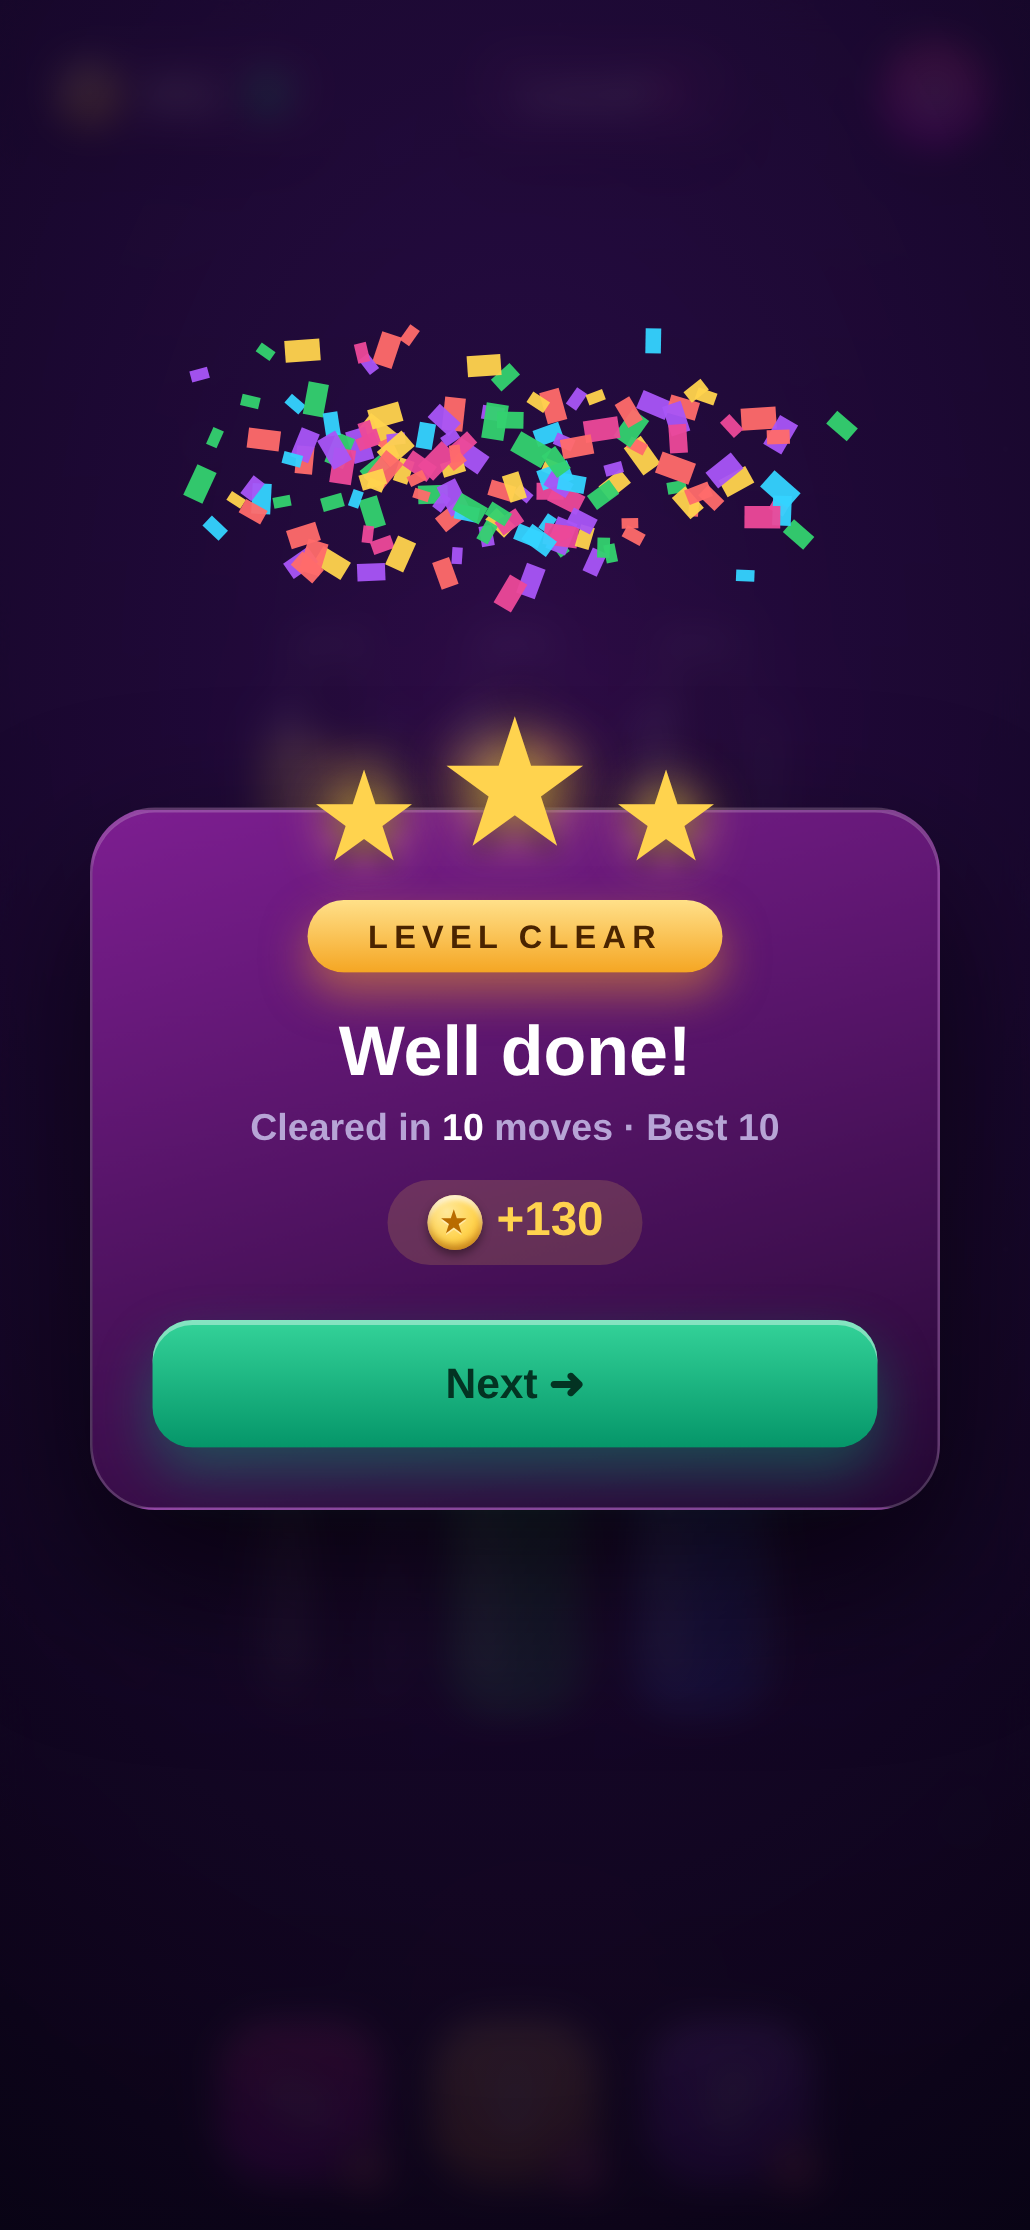
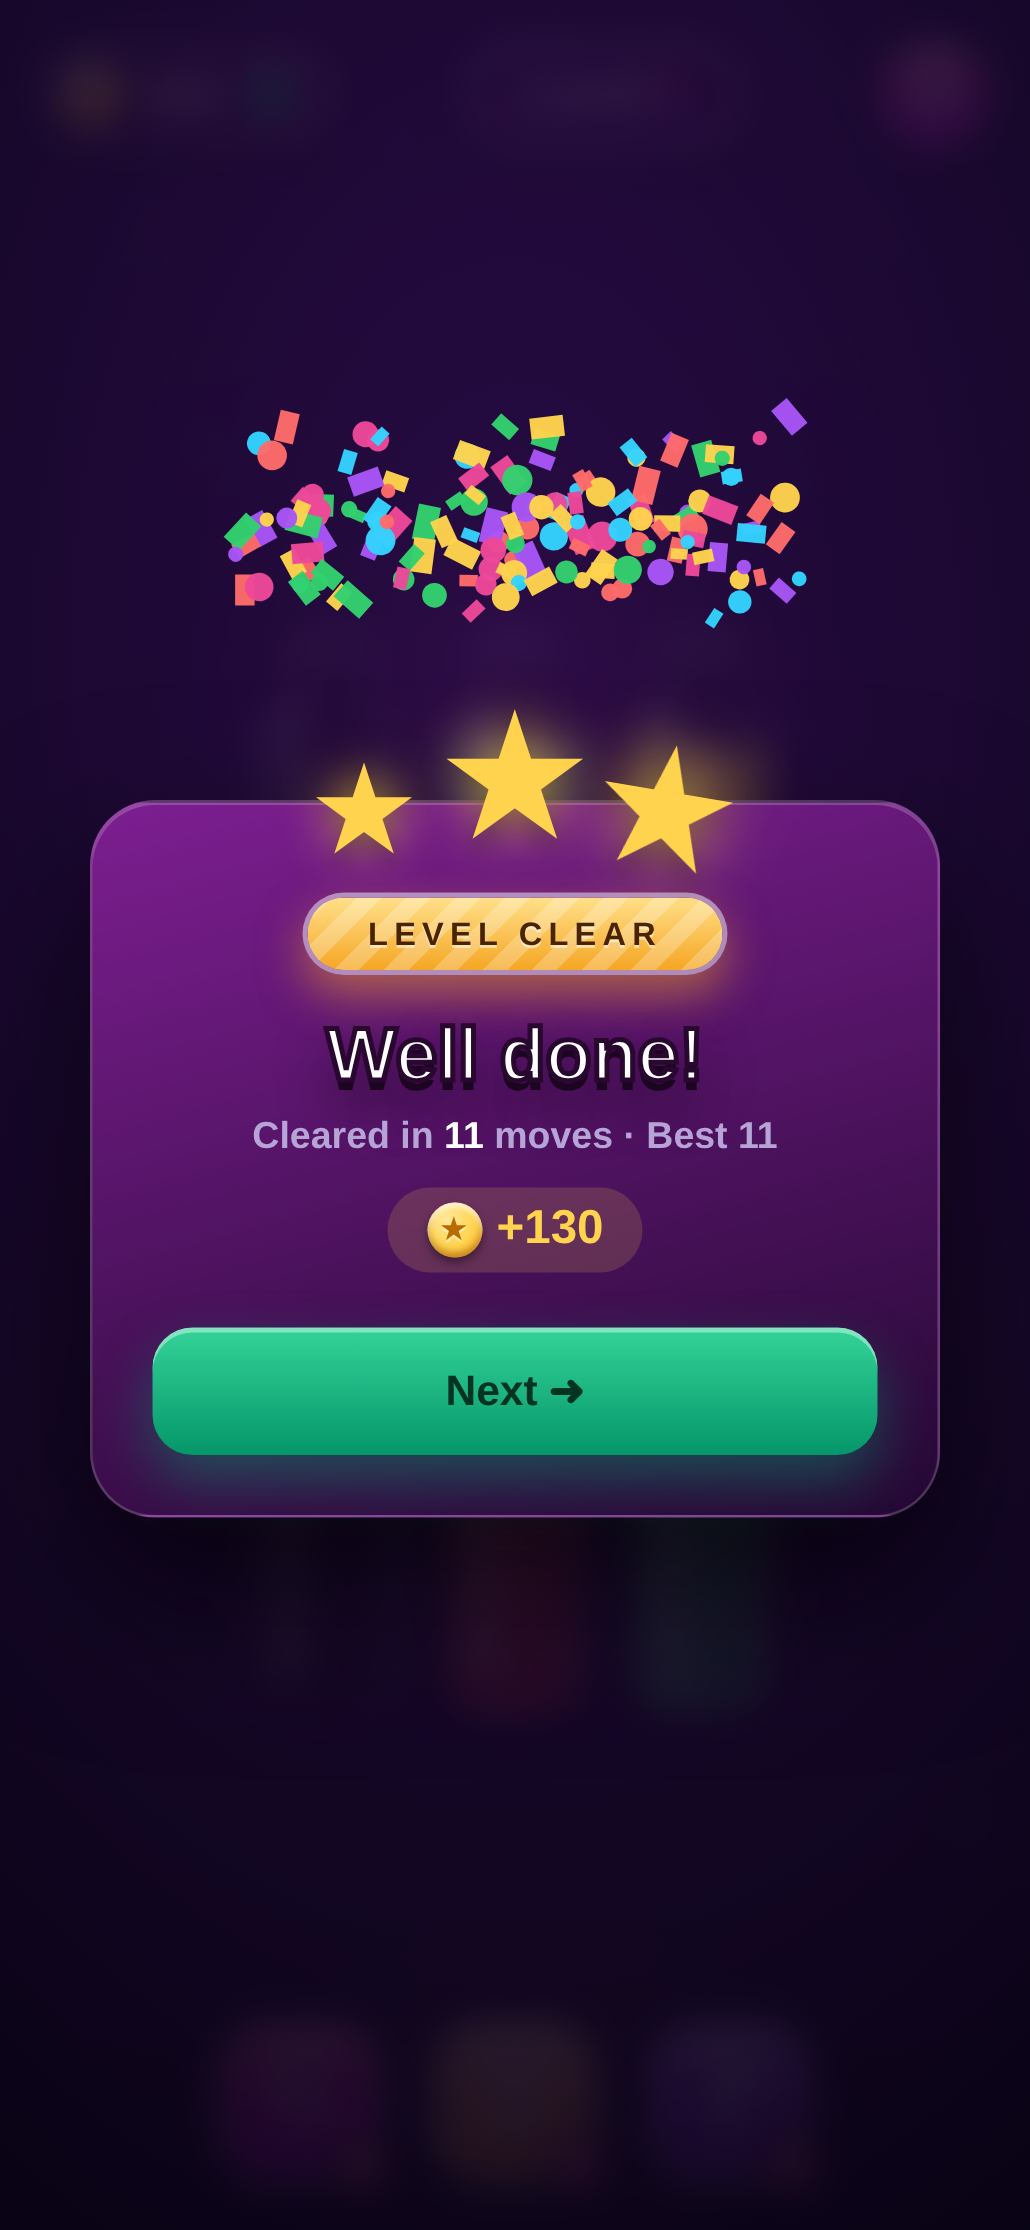
Add Candy Crush-style hard-candy pop elements on top of the premium palette
- Thick white "candy shell" rim borders (new --rim token) on the coin
  pill, level pill, settings gear, and power-up buttons, with a glossy
  top-highlight ellipse on round buttons.
- Bubble-outlined "sticker" text treatment for the win-card title, with
  a diagonal candy-stripe texture on the LEVEL CLEAR ribbon.
- Staggered bounce-in pop-in entrance animation for the HUD on level load.
- Gumdrop-round confetti mixed into the existing rectangle confetti.

Cache-busted assets to ?v=14.

Changed region(s): [[0.0932, 0.3094, 0.901, 0.6807], [0.1864, 0.1238, 0.7767, 0.2785], [0.8078, 0.1857, 0.8388, 0.2166]]

diff --git a/style.css b/style.css
@@ -17,6 +17,7 @@
   --gold-2: #f5a623;
   --danger: #ff3860;
   --shadow: rgba(4, 0, 12, 0.62);
+  --rim: rgba(255, 255, 255, 0.65); /* hard-candy shell edge */
 }
 
 * { box-sizing: border-box; -webkit-tap-highlight-color: transparent; }
@@ -108,10 +109,10 @@ body {
 .coin-pill, .level-pill {
   display: flex; align-items: center;
   border-radius: 999px;
-  border: 1px solid var(--stroke);
+  border: 2px solid var(--rim);
   background: var(--panel);
   backdrop-filter: blur(8px);
-  box-shadow: 0 6px 16px var(--shadow), inset 0 1px 0 rgba(255,255,255,0.14);
+  box-shadow: 0 6px 16px var(--shadow), inset 0 1px 0 rgba(255,255,255,0.14), inset 0 -2px 4px rgba(0,0,0,0.15);
 }
 .coin-pill { gap: 8px; padding: 5px 12px 5px 6px; cursor: pointer; color: var(--text); font: inherit; transition: transform .12s; }
 .coin-pill:active { transform: scale(0.95); }
@@ -141,13 +142,14 @@ body {
 .level-pill span { color: var(--accent); margin-left: 2px; }
 
 .round-btn {
+  position: relative;
   width: 44px; height: 44px; border-radius: 50%;
-  border: 1px solid var(--stroke);
+  border: 2.5px solid var(--rim);
   background: linear-gradient(180deg, var(--pink), var(--pink-2));
   color: #fff;
   display: grid; place-items: center;
   cursor: pointer;
-  box-shadow: 0 6px 16px var(--shadow), inset 0 2px 0 rgba(255,255,255,0.4);
+  box-shadow: 0 6px 16px var(--shadow), inset 0 2px 0 rgba(255,255,255,0.4), inset 0 -3px 6px rgba(90,0,60,0.3);
   transition: transform .12s;
 }
 .round-btn:active { transform: scale(0.92); }
@@ -167,7 +169,7 @@ body {
   position: relative;
   width: 66px; height: 66px;
   border-radius: 22px;
-  border: 2px solid rgba(255, 255, 255, 0.32);
+  border: 3px solid var(--rim);
   background: linear-gradient(180deg, var(--pink), var(--pink-2));
   color: #fff;
   display: grid; place-items: center;
@@ -178,7 +180,16 @@ body {
 #hintBtn.pw { background: linear-gradient(180deg, #ffc25f, #f0932b); box-shadow: 0 8px 20px var(--shadow), inset 0 3px 0 rgba(255,255,255,0.42), inset 0 -4px 8px rgba(110,55,0,0.3); }
 #addTubeBtn.pw { background: linear-gradient(180deg, var(--violet), var(--violet-2)); box-shadow: 0 8px 20px var(--shadow), inset 0 3px 0 rgba(255,255,255,0.4), inset 0 -4px 8px rgba(50,0,80,0.3); }
 .pw:active { transform: translateY(3px) scale(0.96); }
-.pw svg { width: 30px; height: 30px; }
+.pw svg { width: 30px; height: 30px; position: relative; z-index: 1; }
+/* Hard-candy shine: a bright ellipse highlight near the top, like a
+   glossy sugar-shell button rather than a flat filled rectangle. */
+.pw::before, .round-btn::before {
+  content: "";
+  position: absolute; left: 14%; right: 14%; top: 8%; height: 34%;
+  border-radius: 50%;
+  background: linear-gradient(180deg, rgba(255,255,255,0.65), rgba(255,255,255,0));
+  pointer-events: none;
+}
 .pw-badge {
   position: absolute;
   right: -7px; bottom: -7px;
@@ -242,10 +253,21 @@ body {
   display: inline-block; margin: 6px 0 14px;
   padding: 7px 24px; border-radius: 999px;
   font-family: "Baloo 2", sans-serif; font-weight: 800; letter-spacing: 2.5px; font-size: 13px;
-  color: #4a2400; background: linear-gradient(180deg, #ffe08a, var(--gold-2));
+  color: #4a2400;
+  /* peppermint-stripe texture over the gold shell — a classic candy motif */
+  background:
+    repeating-linear-gradient(135deg, rgba(255,255,255,0.24) 0 7px, transparent 7px 14px),
+    linear-gradient(180deg, #ffe08a, var(--gold-2));
+  background-clip: padding-box;
+  border: 2px solid rgba(255,255,255,0.5);
   box-shadow: 0 8px 18px rgba(245,166,35,.5);
+  text-shadow: 0 1px 0 rgba(255,255,255,.5);
 }
-.win-title { font-family: "Baloo 2", sans-serif; font-size: 28px; margin: 2px 0 6px; color: #fff; }
+.win-title {
+  font-family: "Baloo 2", sans-serif; font-size: 30px; margin: 2px 0 6px; color: #fff;
+  -webkit-text-stroke: 2px #29082f;
+  text-shadow: 0 4px 0 #1c0521, 0 10px 20px rgba(0,0,0,.5);
+}
 .win-sub { color: var(--text-dim); font-size: 15px; margin: 0 0 12px; font-weight: 700; }
 .win-sub b { color: #fff; }
 .win-coins { display: inline-flex; align-items: center; justify-content: center; gap: 6px; margin-bottom: 22px; padding: 6px 16px; border-radius: 999px; background: rgba(255,211,78,0.16); font-family: "Baloo 2", sans-serif; font-size: 19px; color: var(--gold); }
@@ -351,5 +373,14 @@ body {
 .store-balance b { color: var(--gold); }
 .coin.xs { width: 18px; height: 18px; vertical-align: middle; display: inline-grid; }
 .coin.xs .coin-star { font-size: 10px; }
+
+/* Staggered bounce-in for the HUD/action bar on each level load */
+@keyframes popIn {
+  0% { transform: scale(0.35) translateY(16px); opacity: 0; }
+  60% { transform: scale(1.1) translateY(-4px); opacity: 1; }
+  82% { transform: scale(0.96) translateY(1px); }
+  100% { transform: scale(1) translateY(0); }
+}
+.pop-in { animation: popIn .55s cubic-bezier(.28,1.6,.5,1) both; }
 
 .hidden { display: none !important; }

diff --git a/game.js b/game.js
@@ -968,7 +968,7 @@ function loadLevel(level) {
   state.optimal = null; state.moves = 0; state.history = [];
   state.selected = null; state.won = false; state.hint = null;
   pour = null; dyn = []; syncDyn();
-  hideWin(); updateHud();
+  hideWin(); updateHud(); popInHud();
   const token = ++optimalToken;
   const snap = state.tubes.map((t) => t.slice());
   setTimeout(() => { const path = solvePath(snap, 150000); if (token === optimalToken) state.optimal = path ? path.length : null; }, 30);
@@ -980,6 +980,20 @@ function updateHud() {
   setBadge("undoBadge", state.pw.undo);
   setBadge("hintBadge", state.pw.hint);
   setBadge("addBadge", state.pw.add);
+}
+
+// Staggered candy-shell bounce-in for the chrome around a fresh level —
+// the "everything hops onto the stage" feel of a top-tier match game.
+const POP_IN_IDS = ["coinPill", "levelPill", "settingsBtn", "undoBtn", "hintBtn", "addTubeBtn"];
+function popInHud() {
+  POP_IN_IDS.forEach((id, i) => {
+    const el = document.getElementById(id);
+    if (!el) return;
+    el.classList.remove("pop-in");
+    void el.offsetWidth;
+    el.style.animationDelay = (i * 45) + "ms";
+    el.classList.add("pop-in");
+  });
 }
 
 // Juicy coin counter: ticks up/down toward the target instead of snapping,
@@ -1063,6 +1077,7 @@ function startConfetti() {
     g: 0.22 + Math.random() * 0.12, r: 4 + Math.random() * 5,
     rot: Math.random() * 6.28, vr: (Math.random() - 0.5) * 0.3,
     col: cols[(Math.random() * cols.length) | 0], life: 0,
+    round: Math.random() < 0.4, // a gumdrop-round mix among the candy-wrapper rects
   });
   cancelAnimationFrame(confettiRAF); confettiStep();
 }
@@ -1075,7 +1090,9 @@ function confettiStep() {
     if (c.y < h + 20) alive++;
     cctx.save(); cctx.translate(c.x, c.y); cctx.rotate(c.rot);
     cctx.fillStyle = c.col; cctx.globalAlpha = Math.max(0, 1 - c.life / 220);
-    cctx.fillRect(-c.r / 2, -c.r / 2, c.r, c.r * 1.6); cctx.restore();
+    if (c.round) { cctx.beginPath(); cctx.arc(0, 0, c.r * 0.68, 0, Math.PI * 2); cctx.fill(); }
+    else cctx.fillRect(-c.r / 2, -c.r / 2, c.r, c.r * 1.6);
+    cctx.restore();
   }
   if (alive > 0 && !overlay.classList.contains("hidden")) confettiRAF = requestAnimationFrame(confettiStep);
 }

diff --git a/index.html b/index.html
@@ -33,7 +33,7 @@
   <link rel="preconnect" href="https://fonts.googleapis.com" />
   <link rel="preconnect" href="https://fonts.gstatic.com" crossorigin />
   <link href="https://fonts.googleapis.com/css2?family=Baloo+2:wght@600;700;800&family=Nunito:wght@700;800;900&display=swap" rel="stylesheet" />
-  <link rel="stylesheet" href="style.css?v=13" />
+  <link rel="stylesheet" href="style.css?v=14" />
 </head>
 <body>
   <div class="sky" aria-hidden="true">
@@ -52,7 +52,7 @@
         <span class="coin-plus">＋</span>
       </button>
 
-      <div class="level-pill">Level <span id="levelValue">1</span></div>
+      <div class="level-pill" id="levelPill">Level <span id="levelValue">1</span></div>
 
       <button class="round-btn" id="settingsBtn" aria-label="Settings">
         <svg viewBox="0 0 24 24" fill="none" stroke="currentColor" stroke-width="2" stroke-linecap="round" stroke-linejoin="round"><circle cx="12" cy="12" r="3.2"/><path d="M19.4 15a1.65 1.65 0 0 0 .33 1.82l.06.06a2 2 0 1 1-2.83 2.83l-.06-.06a1.65 1.65 0 0 0-1.82-.33 1.65 1.65 0 0 0-1 1.51V21a2 2 0 1 1-4 0v-.09A1.65 1.65 0 0 0 9 19.4a1.65 1.65 0 0 0-1.82.33l-.06.06a2 2 0 1 1-2.83-2.83l.06-.06a1.65 1.65 0 0 0 .33-1.82 1.65 1.65 0 0 0-1.51-1H3a2 2 0 1 1 0-4h.09A1.65 1.65 0 0 0 4.6 9a1.65 1.65 0 0 0-.33-1.82l-.06-.06a2 2 0 1 1 2.83-2.83l.06.06a1.65 1.65 0 0 0 1.82.33H9a1.65 1.65 0 0 0 1-1.51V3a2 2 0 1 1 4 0v.09a1.65 1.65 0 0 0 1 1.51 1.65 1.65 0 0 0 1.82-.33l.06-.06a2 2 0 1 1 2.83 2.83l-.06.06a1.65 1.65 0 0 0-.33 1.82V9a1.65 1.65 0 0 0 1.51 1H21a2 2 0 1 1 0 4h-.09a1.65 1.65 0 0 0-1.51 1z"/></svg>
@@ -169,6 +169,6 @@
     </div>
   </div>
 
-  <script src="game.js?v=13"></script>
+  <script src="game.js?v=14"></script>
 </body>
 </html>
